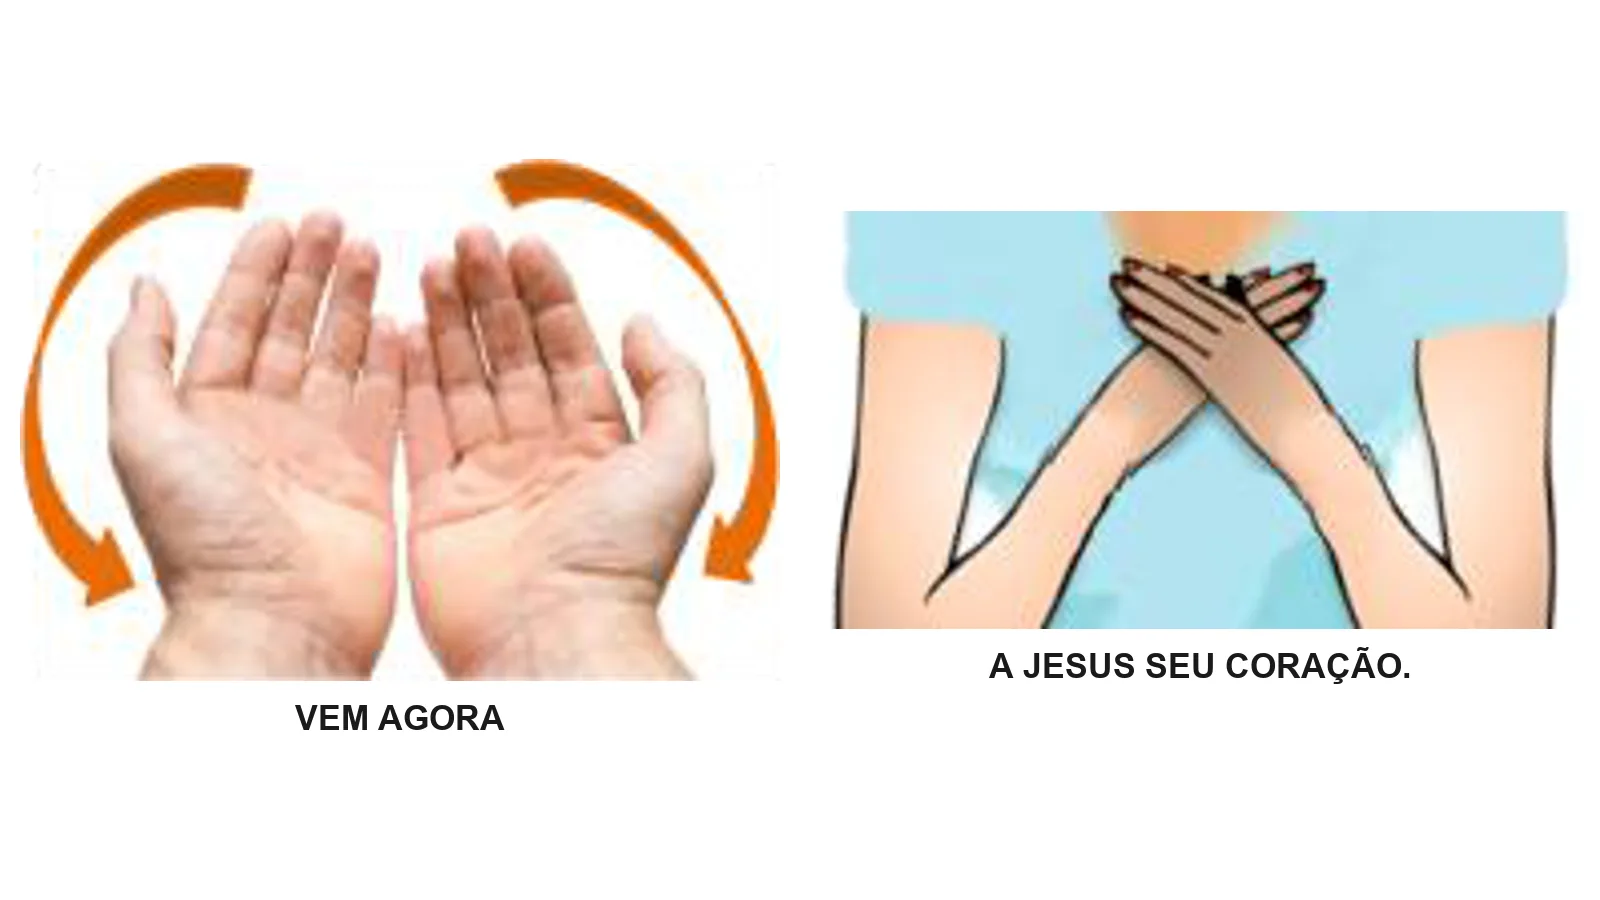
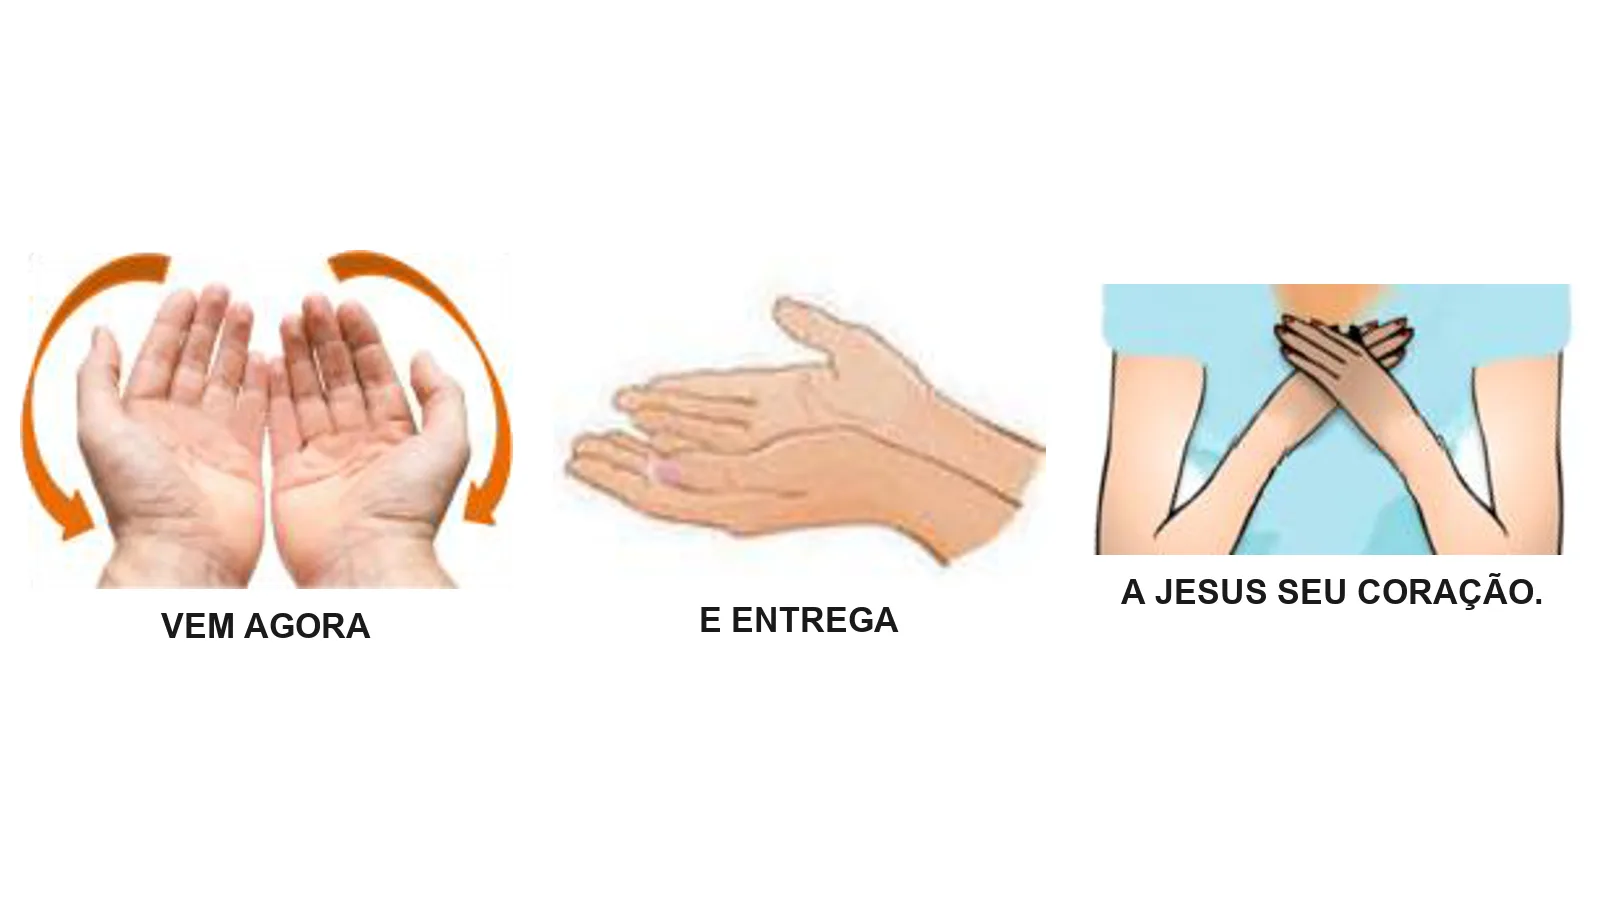
3.0.9: acabamentos da tela de retorno; 69 com 'e entrega' como na apostila
- legenda colada na figura, figuras assentadas na base, um tamanho de letra so, ultima linha centralizada
- o slide no AGORA com a copia desfocada atras; rotulo numa linha (encolhe sem cortar)
- espera = o relogio desenhado no retorno, enchendo a TV (sem a moldura do fundo liso)
- aula: o gesto do 'e entrega' nos slides 10 e 11 (legenda como a apostila da Cris)
- prova 66/66 em 1366x768 e 1920x1080

Claude-Session: https://claude.ai/code/session_01LNWyxcjK2fizboRu4gErbG

diff --git a/retorno.html b/retorno.html
@@ -24,6 +24,7 @@
 <style>
   /* a fonte do Sistema (a mesma do telão), para o relógio e a legenda */
   @font-face{font-family:'Sistema A1';font-weight:100 900;font-style:normal;src:url('fontes/Outfit.ttf') format('truetype-variations');}
+  @font-face{font-family:'Bebas';src:url('fontes/bebas.otf');}
   @font-face{font-family:'Sistema A3';font-weight:100 900;font-style:normal;src:url('fontes/Outfit.ttf') format('truetype-variations');}
   /* 3.0.9: a TV de apoio no PADRÃO DO SISTEMA (as cores do app.css: azul do painel, ouro, o verde da casa) */
   :root { --fundo:#0b1526; --painel:#16233c; --painel2:#1e2d49; --borda:#2c3d5c; --texto:#eaf0fb; --apagado:#9db3d6;
@@ -58,22 +59,24 @@
   #gc-seg { flex:0 0 40.6%; }
   .grot { font-size:3vh; font-weight:800; color:var(--ouro); letter-spacing:.08em; text-transform:uppercase; text-align:left; margin:0 0 .8vh .4vw;
     white-space:nowrap; overflow:hidden; text-overflow:ellipsis; }
-  .gcard { flex:1; min-height:0; background:#fff; border-radius:1.8vh; padding:1.6vh 1vw; box-sizing:border-box; display:grid; gap:1.4vh 1vw;
+  .gcard { flex:1; min-height:0; background:#fff; border-radius:1.8vh; padding:1.6vh 1vw; box-sizing:border-box; display:flex;
+    flex-wrap:wrap; justify-content:center; align-content:space-evenly; gap:1.4vh 1vw; overflow:hidden;
     box-shadow:0 2vh 6vh #0009; transition:opacity .35s ease-out, transform .35s ease-out; }
   .seguir .gcard { opacity:.82; outline:.45vh dashed var(--verde); outline-offset:.5vh; }
   .gcard.troca { opacity:0; transform:scale(.97); }
   .seguir .gcard.troca { opacity:0; }
-  .gfig { display:grid; grid-template-rows:minmax(0,1fr) auto; justify-items:center; align-items:center; min-width:0; min-height:0; }
-  .gfig img { width:100%; height:100%; min-height:0; object-fit:contain; }
+  .gfig { display:flex; flex-direction:column; align-items:center; min-width:0; min-height:0; }
+  .gfig img { flex:1; width:100%; min-height:0; object-fit:contain; object-position:center bottom; }
   /* a legenda: legível e secundária, até 2 linhas; se faltar espaço ela encolhe (a figura nunca) */
-  .gfig .gleg { margin-top:.4vh; font:800 4vh/1.06 "Sistema A3", "Segoe UI", Arial, sans-serif; color:#1a1a1a; text-align:center;
-    text-transform:uppercase; max-width:100%; overflow:hidden; }
+  .gfig .gleg { flex:none; margin-top:8px; font:800 4vh/1.06 "Sistema A3", "Segoe UI", Arial, sans-serif; color:#1a1a1a; text-align:center;
+    text-transform:uppercase; max-width:100%; overflow:hidden; height:2.12em; display:flex; align-items:flex-start; justify-content:center; }
   .seguir .gfig .gleg { font-size:3.6vh; }
   /* a prévia entre louvores: os gestos do próximo JÁ no lugar, com a marca de próximo */
   #gc-agora.previa .gcard { outline:.45vh dashed var(--ouro); outline-offset:.5vh; }
   .gcard.so-img img { width:100%; height:100%; object-fit:contain; }
-  .gcard.slide { background:#000; padding:0; overflow:hidden; display:flex; flex-direction:column; }
-  .gcard.slide img { flex:1; min-height:0; width:100%; object-fit:contain; }
+  .gcard.slide { background:#000; padding:0; overflow:hidden; display:flex; flex-direction:column; position:relative; }
+  .gcard.slide img { position:relative; flex:1; min-height:0; width:100%; object-fit:contain; }
+  .gcard.slide .gfundo { position:absolute; inset:-6%; background-size:cover; background-position:center; filter:blur(3vh) brightness(.7); }
   .gcard.slide .gsl { flex:none; padding:1vh 1vw; font-size:3vh; font-weight:700; color:var(--ouro); text-align:center; background:var(--painel); }
   .gcard.louvor { background:linear-gradient(180deg,var(--painel2),var(--painel)); display:flex; align-items:center; justify-content:center; }
   .gcard.louvor .gtit { font-size:6vh; font-weight:800; color:var(--texto); text-align:center; padding:0 2vw; line-height:1.15; }
@@ -101,6 +104,10 @@
   .c-rot { font-size:2.8vh; font-weight:700; color:var(--ouro); text-transform:uppercase; letter-spacing:.06em; margin-top:4vh; }
   #c-prox { font-size:7.5vh; font-weight:700; color:var(--texto); max-width:92vw; margin-top:.6vh; }
   #c-vers { font-size:5vh; max-width:88vw; color:var(--texto); margin-top:.6vh; }
+  #relogio.on { inset:0; z-index:6; }
+  #r-data { font-family:'Sistema A1', "Segoe UI", sans-serif; font-size:3.6vh; font-weight:500; letter-spacing:.42em; color:var(--ouro);
+    text-shadow:0 .3vh 1.2vh #000a; margin-bottom:1vh; }
+  #r-hora { font-family:'Bebas', 'Sistema A1', sans-serif; font-size:30vh; line-height:1; color:#fff; text-shadow:0 1vh 3vh #000b; }
   /* 3.0.9: o espelho do telão (o próprio projecao.html, alimentado pelo /api/tela) */
   #espelho { inset:0; z-index:5; background:#000; }
   #esp-f { width:100%; height:100%; border:0; display:block; background:#000; }
@@ -165,6 +172,9 @@
   <div class="c-rot" id="c-vers-rot">Versículo</div>
   <div id="c-vers">—</div>
 </section>
+
+<!-- 3.0.9: a tela de espera no telão = o relógio do Sistema, enchendo a TV (sem a moldura do fundo liso) -->
+<section class="tela" id="relogio"><div id="r-data"></div><div id="r-hora">--:--</div></section>
 
 <!-- 3.0.9: Bíblia, aviso, fundo, aula, louvor sem gesto: o MESMO desenho do telão -->
 <section class="tela" id="espelho"><iframe id="esp-f" title="o que está no telão"></iframe></section>
@@ -269,28 +279,42 @@ function aSeguir(e, g) {
 function grade(g) {
   if (g && g.figs && g.figs.length) {
     const n = g.figs.length, col = n <= 2 ? n : n <= 4 ? 2 : 3, lin = Math.ceil(n / col);
-    return { cls: '', css: 'grid-template-columns:repeat(' + col + ',minmax(0,1fr));grid-template-rows:repeat(' + lin + ',minmax(0,1fr))',
-             html: g.figs.map(f => '<div class="gfig"><img src="' + f.img + '" alt=""><div class="gleg">' + escH(f.txt) + '</div></div>').join('') };
+    const tam = 'width:calc((100% - ' + (col - 1) + 'vw) / ' + col + ');height:calc((100% - ' + (lin - 1) * 1.4 + 'vh) / ' + lin + ')';
+    return { cls: '', css: '',
+             html: g.figs.map(f => '<div class="gfig" style="' + tam + '"><img src="' + f.img + '" alt=""><div class="gleg"><span>' + escH(f.txt) + '</span></div></div>').join('') };
   }
   if (g && g.img) return { cls: 'so-img', css: '', html: '<img src="' + g.img + '" alt="">' };
   return null;
 }
-function ajustaLegendas(raiz) {
-  for (const el of raiz.querySelectorAll('.gleg')) {
+// o rótulo (AGORA / A SEGUIR / Próximo louvor · TÍTULO) numa linha só: encolhe até caber, sem cortar o título
+function ajustaRotulos() {
+  for (const el of document.querySelectorAll('#gesto .grot')) {
     el.style.fontSize = '';
     let px = parseFloat(getComputedStyle(el).fontSize);
-    const limite = px * 1.06 * 2 + 2, minimo = innerHeight * 0.022;
-    while (el.scrollHeight > limite && px > minimo) { px -= 1; el.style.fontSize = px + 'px'; }
+    while (el.scrollWidth > el.clientWidth + 1 && px > innerHeight * 0.016) { px -= 1; el.style.fontSize = px + 'px'; }
   }
 }
-addEventListener('resize', () => { ajustaLegendas(document); });
+function ajustaLegendas() {
+  const todas = [...document.querySelectorAll('#gesto .gleg')];
+  if (!todas.length) return;
+  todas.forEach(el => { el.style.fontSize = ''; });
+  const base = parseFloat(getComputedStyle(todas[0]).fontSize), minimo = innerHeight * 0.022;
+  let px = base;
+  const cabe = el => { const s = el.firstElementChild; return !s || s.getBoundingClientRect().height <= px * 1.06 * 2 + 2; };
+  while (px > minimo) {
+    todas.forEach(el => { el.style.fontSize = px + 'px'; });
+    if (todas.every(cabe)) break;
+    px -= 1;
+  }
+}
+addEventListener('resize', () => { ajustaLegendas(); ajustaRotulos(); });
 function escH(s) { return String(s || '').replace(/[&<>"]/g, c => ({ '&': '&amp;', '<': '&lt;', '>': '&gt;', '"': '&quot;' }[c])); }
 // troca suave: some (opacidade + leve escala, o que custa menos no Vaio) e volta com o conteúdo novo
 function pinta(el, chave, monta) {
   if (el.dataset.k === chave) return;
   const primeira = !el.dataset.k;
   el.dataset.k = chave;
-  const aplica = () => { const r = monta(); el.className = 'gcard ' + (r.cls || ''); el.style.cssText = r.css || ''; el.innerHTML = r.html; ajustaLegendas(el); };
+  const aplica = () => { const r = monta(); el.className = 'gcard ' + (r.cls || ''); el.style.cssText = r.css || ''; el.innerHTML = r.html; ajustaLegendas(); };
   if (primeira) { aplica(); return; }
   el.classList.add('troca');
   setTimeout(() => { aplica(); requestAnimationFrame(() => el.classList.remove('troca')); setTimeout(() => el.classList.remove('troca'), 60); }, 180);
@@ -338,8 +362,12 @@ function pintaGestos(e, g) {
   else if (s) pinta($('#g-seg'), 'l:' + s.louvor, () => ({ cls: 'louvor', css: '', html: '<div class="gtit"><span class="gsub">Próximo louvor</span>' + escH(s.louvor) + '</div>' }));
 }
 
+const DIAS = ['DOMINGO', 'SEGUNDA-FEIRA', 'TERÇA-FEIRA', 'QUARTA-FEIRA', 'QUINTA-FEIRA', 'SEXTA-FEIRA', 'SÁBADO'];
+const MESES = ['JANEIRO', 'FEVEREIRO', 'MARÇO', 'ABRIL', 'MAIO', 'JUNHO', 'JULHO', 'AGOSTO', 'SETEMBRO', 'OUTUBRO', 'NOVEMBRO', 'DEZEMBRO'];
 function hora() {
   const d = new Date();
+  $('#r-data').textContent = DIAS[d.getDay()] + ' · ' + d.getDate() + ' DE ' + MESES[d.getMonth()] + ' DE ' + d.getFullYear();
+  $('#r-hora').textContent = String(d.getHours()).padStart(2, '0') + ':' + String(d.getMinutes()).padStart(2, '0');
   $('#c-hora').textContent = String(d.getHours()).padStart(2, '0') + ':' + String(d.getMinutes()).padStart(2, '0');
 }
 
@@ -388,7 +416,8 @@ fetch('/api/apresentacoes', { cache: 'no-store' }).then(r => r.json()).then(r =>
   (r.lista || []).forEach(a => { APRS[a.nome] = a.slides || []; });
 }).catch(() => {});
 function slideCard(url, rotulo) {
-  return { cls: 'slide', css: '', html: (url ? '<img src="' + url + '" alt="">' : '') + (rotulo ? '<div class="gsl">' + escH(rotulo) + '</div>' : '') };
+  return { cls: 'slide', css: '', html: (url ? '<div class="gfundo" style="background-image:url(\'' + url + '\')"></div><img src="' + url + '" alt="">' : '') +
+    (rotulo ? '<div class="gsl">' + escH(rotulo) + '</div>' : '') };
 }
 function pintaApres(e, g) {
   const ap = apresNoAr(e), t = G()['apres:' + ap] || {}, sl = APRS[ap] || [], n = e.slidepp, total = sl.length || e.slides || 0;
@@ -414,6 +443,7 @@ function pintaApres(e, g) {
     pinta($('#g-seg'), 'ssl:' + ap + (n + 1), () => slideCard(sl[n + 1] || '', ''));
   }
   $('#t-oque').textContent = g && g.louvor ? g.louvor : ap;
+  ajustaRotulos();
 }
 function soLouvor(nome) {
   const t = nome && G()['apres:' + nome]; if (!t) return false;
@@ -429,7 +459,7 @@ function modoDe(e, g) {
   if (g) return 'gesto';                                   // louvor com gesto da Cris
   if (e.tipo === 'louvor') return espPronto ? 'espelho' : 'letra';   // sem gesto: a MESMA tela do telão
   // a TELA DE ESPERA no telão (ele, Mt 1:18): aqui o relógio da Maranata, o mesmo desenho da aba Relógio
-  if (e.tipo === 'descanso' && e.plano) return 'relogio';
+  if (e.tipo === 'descanso') return 'relogio';
   if (!e.tipo || e.tipo === 'descanso' || e.tipo === 'preto') return 'cinema';
   // numa apresentação QUASE TODA de louvor (os Louvores: 24 de 30 com gesto) o slide sem gesto é a espera entre
   // louvores: o próximo louvor grande. Na aula (9 de 22) o resto é o material da aula: espelho do telão.
@@ -513,8 +543,7 @@ async function ciclo() {
   if (modo === 'relogio') {
     document.body.classList.remove('gestos');
     document.body.classList.add('sem-topo');
-    espelhar({ modo: 'relogio', fundo: e.plano, estilo: e.estilo, transicao: false }, 'relogio:' + e.plano + e.estilo);
-    mostra('espelho');
+    mostra('relogio');
     return;
   }
   if (modo === 'espelho') {

diff --git a/dados/gestos.js b/dados/gestos.js
@@ -479,7 +479,7 @@ window.GESTOS["apres:Evangelização de Outubro 2026"] = {
    },
    {
     "img": "gestos/evang_out2026_aula/f/69_69_12_0.webp",
-    "txt": "e entregue"
+    "txt": "e entrega"
    },
    {
     "img": "gestos/evang_out2026_aula/f/69_69_15_0.webp",
@@ -494,6 +494,10 @@ window.GESTOS["apres:Evangelização de Outubro 2026"] = {
    {
     "img": "gestos/evang_out2026_aula/f/69_69_11_0.webp",
     "txt": "Vem agora"
+   },
+   {
+    "img": "gestos/evang_out2026_aula/f/69_69_12_0.webp",
+    "txt": "e entrega"
    },
    {
     "img": "gestos/evang_out2026_aula/f/69_69_15_0.webp",

diff --git a/ferramentas/gestos_da_apresentacao.py b/ferramentas/gestos_da_apresentacao.py
@@ -51,9 +51,9 @@ FALTAM = {("fui_lavado", 11): ["../extra/jesus_mao.png"],
 # 18508e00) fica ao lado de "Estamos preparando" (pág. 3, y 470-522). Ela NÃO é do slide 25, e o
 # slide 26 já mostra esse mesmo gesto pela 198_108.
 TIRAR = {("198", 17)}
-# aula (3.0.9): o papel diz "e entregue" e o slide diz "e entrega". Casa pela palavra do slide; a
-# legenda continua a do papel.
-CASA_COMO = {("69", 12): "e entrega"}
+# aula (3.0.9): o papel dos gestos diz "e entregue"; a apostila da Cris e o slide dizem "e entrega" (a versao
+# do caderno, a certa). Casa e escreve como a apostila. O slide 11 tem o texto colado ("ENTREGAA"): a 2a forma.
+CASA_COMO = {("69", 12): ["e entrega", "e entregaa"]}
 COBRE = 0.8           # reserva: fração das palavras DIFERENTES da frase presentes, juntas, no slide
 
 
@@ -70,7 +70,10 @@ def frases_do(louvor, gestos):
             continue
         txt = " ".join("".join(p[0] for p in it["ped"]).split())
         figs = [] if (louvor, i) in TIRAR else it["figs"]
-        out.append({"i": i, "txt": txt, "pal": norm(CASA_COMO.get((louvor, i), txt)), "figs": figs + FALTAM.get((louvor, i), [])})
+        formas = CASA_COMO.get((louvor, i), [txt])
+        for forma in formas:
+            out.append({"i": i, "txt": formas[0] if (louvor, i) in CASA_COMO else txt, "pal": norm(forma),
+                        "figs": figs + FALTAM.get((louvor, i), [])})
     return out
 
 
